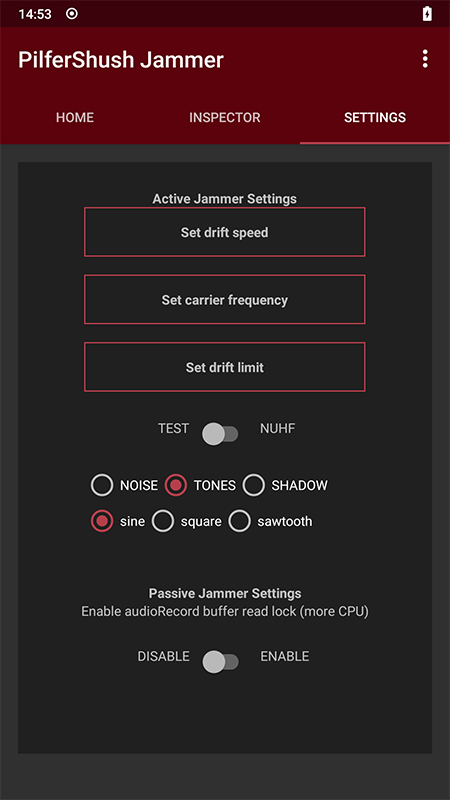
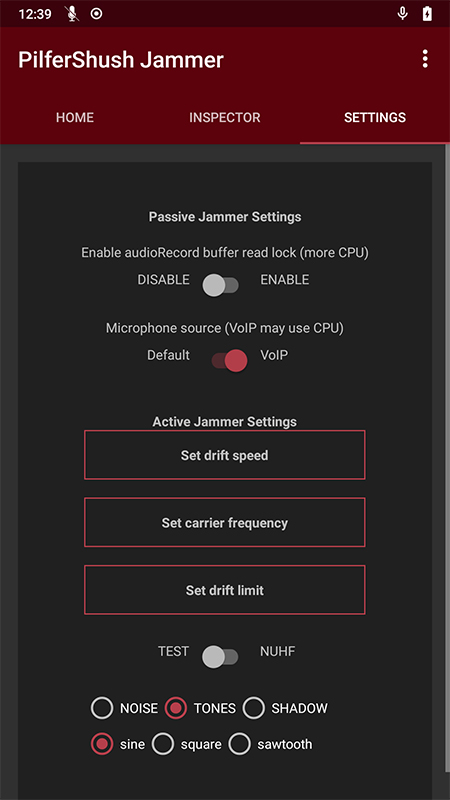
release version

diff --git a/app/src/main/java/cityfreqs/com/pilfershushjammer/utilities/AudioSettings.java b/app/src/main/java/cityfreqs/com/pilfershushjammer/utilities/AudioSettings.java
@@ -45,6 +45,9 @@ public class AudioSettings {
     public static final int MIC_SOURCE_DEFAULT = 0;
     public static final int MIC_SOURCE_VOICE_RECOG = 6;
     public static final int MIC_SOURCE_VOICE_COMM = 7;
+    public static final int MIC_SOURCE_HOTWORD = 1999;
+    // Hotword requires android.Manifest.permission.HOTWORD_RECOGNITION
+    // also: android.permission.CAPTURE_AUDIO_HOTWORD ("Not for use by third-party applications.")
 
     public static final String[] JAMMER_TYPES = new String[]{
             "Slow audible test tone drift (~440Hz)",

diff --git a/README.md b/README.md
@@ -49,7 +49,7 @@ see <https://github.com/commonsguy/cw-omnibus/tree/master/Assist/TapOffNow>
 
 **TODO:**
 - minimum API bump to 21 (5.0, Lollipop), need to branch?
-- Chrome browser/Omnibox voice search winning concurrent audio mic control
+- Chrome browser/Omnibox voice search winning concurrent audio mic control due to Assistant
 - background autostart activity for concurrent audio fight via SYSTEM_ALERT_WINDOW permission
 - vs AccessibilityService misuse, in Android 10 (does not work in Go version)
 - see : <https://developer.android.com/guide/components/activities/background-starts>
@@ -70,14 +70,18 @@ see <https://github.com/commonsguy/cw-omnibus/tree/master/Assist/TapOffNow>
 
 
 **Changes:**
-- 4.5.2 (released Oct 16, 2020)
-- bugfix for adding already added fragment
-- mediaRecord check catch for exception on some devices
-- revert to DEFAULT as VOICE_COMM may cause Process_VoIP
-- added Settings switch for VOICE_COMM or DEFAULT
-- notes in AudioSettings.java
+- 4.5.3 (released January 2, 2021)
+- android manifest config for screen off display rotate
+- audioManager property support near ultrasound check
+- packageInfo exception handling
+- removed notification xml icon crashing some devices
+- build tools update
+- add SDK name
+- German translation from https://github.com/c-4-m
+- Excessive retrigger counter for concurrent audio loss via UI focus
+- revert back to VOICE_COMM as mic source due to Android 10 concurrent audio
 
-   vers. 4.5.2
+   vers. 4.5.3
    - min API 18 (4.3)
    - target API 29 (10.x)
    - compiled API 29 (10.x)

diff --git a/CHANGELOG.md b/CHANGELOG.md
@@ -1,4 +1,4 @@
-### 4.5.3 (unreleased)
+### 4.5.3 (2021-1-02)
 * android manifest config for screen off display rotate
 * audioManager property support near ultrasound check
 * packageInfo exception handling
